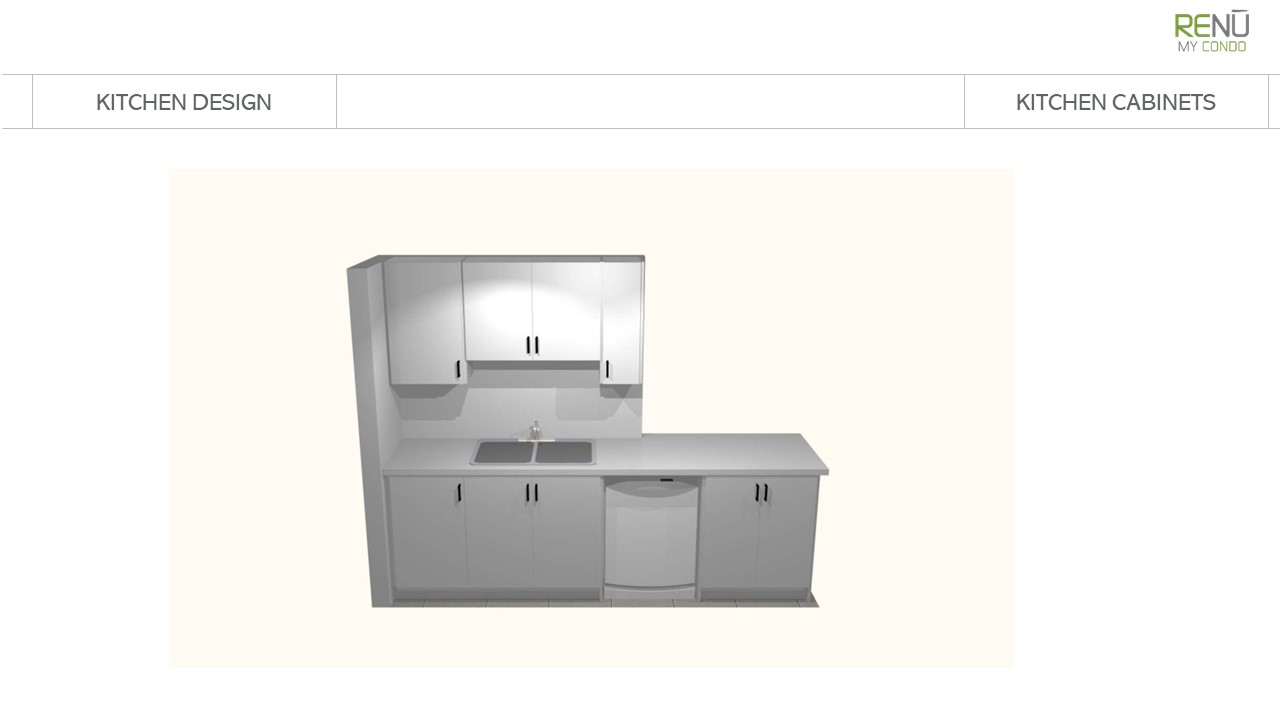
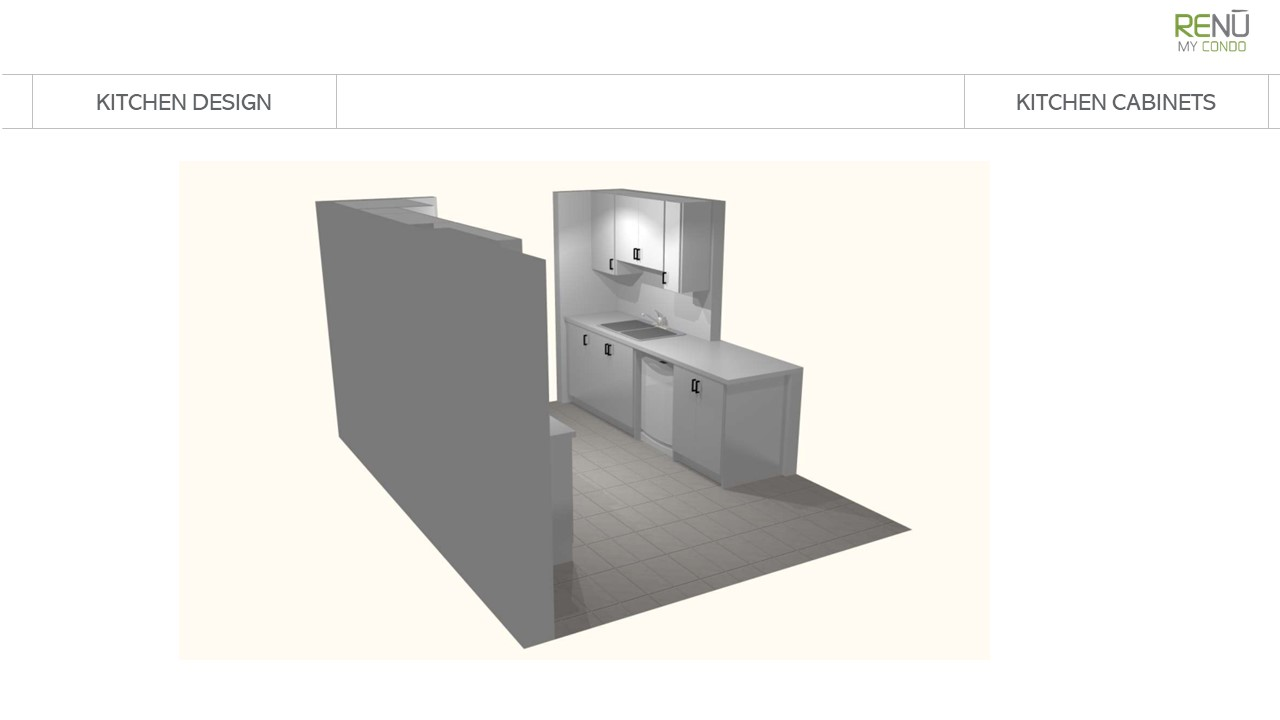
upgate 208 inspection & addons

Changed region(s): [[0.25, 0.2444, 0.7188, 0.9167]]

diff --git a/data-final/addons/20240703-1hycrest-Suzanne/addons.js b/data-final/addons/20240703-1hycrest-Suzanne/addons.js
@@ -9,86 +9,54 @@ const addons = [
   },
   {
     serial: "A2",
-    name: "Floor tile to vinyl flooring",
-    image: "../../data-final/addons/20240703-1hycrest-Suzanne/a1.png",
-    detail: "Replacing floor tile with vinyl flooring in both dining and kitchen areas.",
-    price: "2820",
+    name: "Existing floor tile replacement",
+    image: "../../data-final/addons/20240703-1hycrest-Suzanne/a2.png",
+    detail: "Replacing the existing floor tiles with Renu My Condo floor tiles in foyer, laundry and closet in the hall area.",
+    price: "2360",
     isChecked: false,
   },
   {
     serial: "A3",
-    name: "Existing floor tile replacement",
-    image: "../../data-final/addons/20240703-1hycrest-Suzanne/a1.png",
-    detail: "Replacing the existing floor tiles with Renu My Condo floor tiles in foyer, laundry and closet in the hall area.",
-    price: "2890",
-    isChecked: false,
-  },
-  {
-    serial: "A4",
     name: "Ceiling smoothing",
-    image: "../../data-final/addons/20240703-1hycrest-Suzanne/a2.png",
+    image: "../../data-final/addons/20240703-1hycrest-Suzanne/a3.png",
     detail: "Convert all the popcorn ceilings to flat ceilings throughout the unit.",
     price: "7500",
     isChecked: false,
   },
   {
-    serial: "A5",
+    serial: "A4",
     name: "Kitchen remodification",
-    image: "../../data-final/addons/20240703-1hycrest-Suzanne/a3.png",
+    image: "../../data-final/addons/20240703-1hycrest-Suzanne/a4.png",
     detail: "Remodifying walls, electrical rough-ins and finishes in the kitchen area.",
     price: "3510",
     isChecked: false,
   },
   {
-    serial: "A6",
+    serial: "A5",
     name: "Kitchen cabinets",
-    image: "../../data-final/addons/20240703-1hycrest-Suzanne/a4.png",
-    detail: "Supply and install both base and wall cabinets in high gloss white material, including cabinet modifications.",
-    price: "2400",
-    isChecked: false,
-  },
-  {
-    serial: "A7",
-    name: "Kitchen cabinets extension",
     image: "../../data-final/addons/20240703-1hycrest-Suzanne/a5.png",
-    detail: "Extend kitchen cabinets layout on the fridge side to the left as discussed on site with the client.",
-    price: "1120",
+    detail: "Supply and install both base and wall cabinets in high gloss white material, including cabinet modifications.",
+    price: "2850",
     isChecked: false,
   },
   {
-    serial: "A8",
+    serial: "A6",
     name: "Under-cabinet light fixture",
     image: "../../data-final/addons/20240703-1hycrest-Suzanne/a6.png",
-    detail: "Supply and install under-cabinet light fixtures in the kitchen area, including new electrical wiring.",
+    detail: "Supply and install under-cabinet light fixtures in the kitchen area, including new electrical wiring. ",
     price: "950",
     isChecked: false,
   },
   {
-    serial: "A9",
-    name: "Countertop overhang",
+    serial: "A7",
+    name: "Ceiling light relocating",
     image: "../../data-final/addons/20240703-1hycrest-Suzanne/a7.png",
-    detail: "Extend the countertop by 6-8 inches in the kitchen area.",
-    price: "400",
-    isChecked: false,
-  },
-  {
-    serial: "A10",
-    name: "Bathtub to shower room",
-    image: "../../data-final/addons/20240703-1hycrest-Suzanne/a8.png",
-    detail: "Convert the bathtub to a shower room in the ensuite bathroom.",
-    price: "3000",
-    isChecked: false,
-  },
-  {
-    serial: "A11",
-    name: "Ceiling light relocating ",
-    image: "../../data-final/addons/20240703-1hycrest-Suzanne/a9.png",
     detail: "Relocate the ceiling light in the dining area, the exact location will be confirmed on site.",
     price: "920",
     isChecked: false,
   },
   {
-    serial: "A12",
+    serial: "A8",
     name: "Light fixtures installation",
     image: "",
     detail: "Install a total of 10 light fixtures throughout the unit, fixtures will be provided by the client, the specific installation price depends on the specs of all the light fixtures.",
@@ -96,10 +64,10 @@ const addons = [
     isChecked: false,
   },
   {
-    serial: "A13",
-    name: "Thermostats replacement",
+    serial: "A9",
+    name: "Thermostats replacement ",
     image: "",
-    detail: "Replace two existing thermostats in both dining and living areas, items will be provided by the client.",
+    detail: "Replace two existing thermostats in both dining and living areas, items will be provided by the client. ",
     price: "TBD",
     isChecked: false,
   },

diff --git a/03inspection/slides/20240703-1hycrest-Suzanne/slide.html b/03inspection/slides/20240703-1hycrest-Suzanne/slide.html
@@ -36,6 +36,9 @@
         <img src="./Slide9.JPG" alt="Slide">
         <img src="./Slide10.JPG" alt="Slide">
         <img src="./Slide11.JPG" alt="Slide">
+        <img src="./Slide12.JPG" alt="Slide">
+        <img src="./Slide13.JPG" alt="Slide">
+
 
 
       </div>
